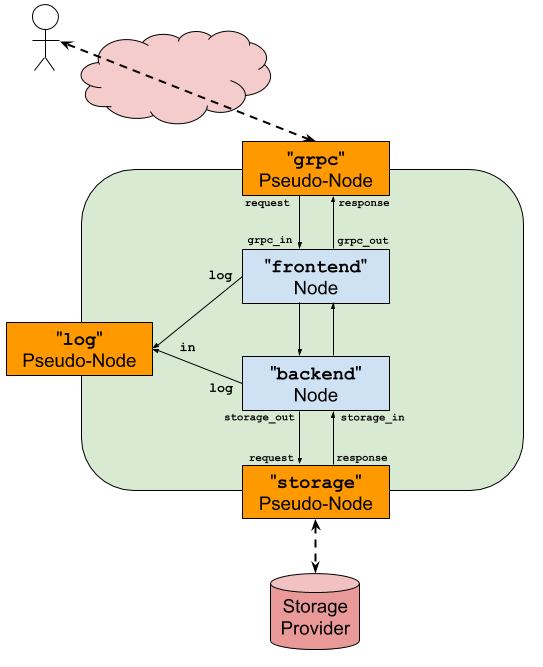
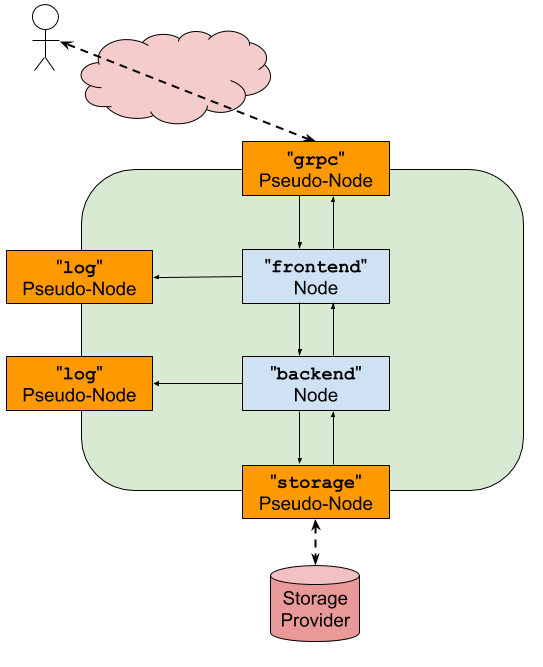
docs: shift to dynamic node creation

diff --git a/docs/concepts.md b/docs/concepts.md
@@ -64,13 +64,6 @@ write to respectively. Each half of a channel is identified by a **handle**,
 which is used as a parameter to the corresponding
 [host function](abi.md#host-functions) calls.
 
-### Pre-Defined Channels and Port Names
-
-A collection of pre-configured channel halves are available to the Oak Node, as
-specified in the `ApplicationConfiguration` used to create the Node. The handles
-for these channels can be retrieved by using the `channel_find` host function
-(below) to map a _port name_ to the relevant channel handle.
-
 ## Pseudo-Nodes
 
 An Oak node is limited to exchanging messages with other Nodes via channels; to
@@ -78,17 +71,27 @@ allow interactions with the outside world, the Oak system also provides a number
 of **pseudo-Nodes**.
 
 These pseudo-Nodes present as normal Nodes to the 'normal' Nodes in an Oak
-Application: the normal Nodes exchange messages with the pseudo-Nodes over
-channels. However, the pseudo-Nodes are implemented as part of the Oak Manager
-(executing as native C++ code, rather than Wasm code) so that they can interact
-with the outside world.
+Application:
+
+- Pseudo-Node instances are created with `node_create()` as for Wasm Nodes (with
+  the exception of the gRPC pseudo-Node, which is automatically created at
+  Application start-of-day).
+- Nodes exchange messages with the pseudo-Nodes over channels.
+
+However, the pseudo-Nodes are implemented as part of the Oak Runtime (executing
+as native C++ code, rather than Wasm code) so that they can interact with the
+outside world.
 
 The available pseudo-Nodes are:
 
 - **gRPC pseudo-node**: Provides a 'front door' for external interaction with an
   Oak Application, by implementing a gRPC service. External requests to the gRPC
-  service are written to an outbound channel from the pseudo-Node, which then
-  expects to receive response messages on a corresponding inbound channel.
+  service are written to a channel that connects from the pseudo-Node to the
+  initial Node of the Application. Each new request is accompanied by a
+  corresponding inbound channel handle, which the initial Node uses to send
+  response messages. The Oak Runtime automatically creates a gRPC pseudo-Node at
+  Application start-of-day (and so gRPC pseudo-Nodes cannot be created with
+  `node_create()`).
 - **Logging pseudo-node**: Provides a logging mechanism for Nodes under
   development by including a single inbound channel; anything received on the
   channel will be logged. This node should only be enabled during application
@@ -99,10 +102,9 @@ The available pseudo-Nodes are:
   associated responses from a corresponding outbound channel from the storage
   pseudo-Node.
 
-An Oak Application which intends to use any of these pseudo-Nodes must include
-them (and channels to/from them) in its
-[Application Configuration](/oak/proto/manager.proto). An example configuration
-that includes all pseudo-Nodes is depicted below.
+An Oak Application uses any of these pseudo-Nodes (except the first) by
+including an entry for them in its `ApplicationConfiguration`, and creating them
+at runtime (with `node_create()`).
 
 <!-- From: -->
 <!-- https://docs.google.com/drawings/d/1gRCOzXWCEhp1-GF6Rnd9N6be8hs1sENfleCzXdQMOsc-->
@@ -111,16 +113,20 @@ that includes all pseudo-Nodes is depicted below.
 ## Oak Application
 
 An **Oak Application** is a set of Oak Nodes running within the same enclave,
-and connected by unidirectional channels. The initial connectivity graph is
-specified by an [Application Configuration](/oak/proto/manager.proto). Once the
-Application is running, new channels may be created and handles to either half
-of the channel may be passed between Nodes, but no new Nodes can be
-instantiated.
+and connected by unidirectional channels. The initial connectivity graph
+consists of:
 
-An Oak Application may have one or more entry points from which it can be
-invoked by clients over a gRPC connection; this is specified in the connectivity
-graph by including a pair of pre-defined channels to a gRPC
-[pseudo-Node](#pseudo-nodes).
+- A gRPC pseudo-Node.
+- An initial Application Node.
+- A single channel from the gRPC pseudo-Node to the initial Application Node.
+
+Once the Application is running, new Nodes can be created (with
+`node_create()`), new channels can be created (with `channel_create()`) and the
+handles to either half of the channel may be passed between Nodes (over
+channels).
+
+The allowed contents of the Nodes, and the initial Node to run, are specified by
+an [Application Configuration](/oak/proto/manager.proto).
 
 Once a new Oak Application is initialized and its endpoint available, clients
 may connect to it using individually end-to-end encrypted, authenticated and

diff --git a/docs/programming-oak.md b/docs/programming-oak.md
@@ -70,10 +70,8 @@ macro implements `oak_main` for you, with the following default behaviour:
 - Create an instance of your Node `struct` (using the `new()` method from the
   [`OakNode`](https://project-oak.github.io/oak/sdk/oak/grpc/trait.OakNode.html)
   trait described below).
-- Look for channel handles corresponding to the
-  [default port names](abi.md#pre-defined-channels) for gRPC input and output
-  channel halves.
-- Pass the Node `struct` and the channel handles to the
+- Take the channel handle passed to `oak_main()` and use it for gRPC input.
+- Pass the Node `struct` and the channel handle to the
   [`event_loop()`](https://project-oak.github.io/oak/sdk/oak/grpc/fn.event_loop.html)
   function from the [`oak::grpc` module](sdk.md#oakgrpc-module).
 
@@ -231,9 +229,10 @@ configuration (described in the next section) easier:
 
 To use the `CreateApplication` method, the client needs to specify the
 _application configuration_; this describes the Nodes that make up the
-application, and their connectivity. However, for the simple case of a one-Node
-application the `oak::ManagerClient` helper takes care of this; the client just
-need to provide the code that is going to be run in the Node, as a Wasm module:
+application, and the initial Node to start. However, for the simple case of a
+one-Node application the `oak::ManagerClient` helper takes care of this; the
+client just need to provide the code that is going to be run in the Node, as a
+Wasm module:
 
 <!-- prettier-ignore-start -->
 [embedmd]:# (../examples/rustfmt/client/rustfmt.cc C++ /.*FLAGS_module/ /}/)
@@ -302,7 +301,8 @@ sections) would be as follows:
 - The Oak Runtime receives the message and encapsulates it in a `GrpcRequest`
   wrapper message.
 - The Oak Runtime serializes the `GrpcRequest` and writes it to the gRPC-in
-  channel for the node.
+  channel for the node. It also creates a new channel for any responses, and
+  passes a handle for this response channel alongside the request.
 - This unblocks the Node code, and `oak::grpc::event_loop` reads and
   deserializes the incoming gRPC request. It then calls the Node's `invoke()`
   method with the method name and (serialized) gRPC request.
@@ -312,9 +312,9 @@ sections) would be as follows:
   `Node`.
 - The (user-written) code in this method does its work, and returns a response.
 - The auto-generated `dispatch()` code encapsulates the response into a
-  `GrpcResponse` wrapper message, and serializes into the gRPC output channel.
-- The Oak Runtime reads this message from the channel, deserializes it and sends
-  the inner response back to the client.
+  `GrpcResponse` wrapper message, and serializes into the response channel.
+- The Oak Runtime reads this message from the response channel, deserializes it
+  and sends the inner response back to the client.
 - The client C++ code receives the response.
 
 <!-- From (Google-internal): http://go/sequencediagram/view/5741464478810112 -->
@@ -373,8 +373,8 @@ crate also allows the gRPC service methods to be tested via the
 #[test]
 #[serial(node_test)]
 fn test_hello_request() {
-    oak_tests::grpc_channel_setup_default();
-    oak_tests::start_node(oak_tests::DEFAULT_NODE_NAME);
+    let handle = oak_tests::grpc_channel_setup_default();
+    oak_tests::start_node(handle);
 
     let mut req = HelloRequest::new();
     req.set_greeting("world".to_string());
@@ -417,7 +417,7 @@ now in Rust rather than C++).
 
 However, the fields in the application configuration that hold the Wasm bytecode
 for the various Nodes are ignored; instead, the second argument to
-`oak_tests::start()` is a map from the relevant `WasmContents.name` to a
+`oak_tests::start()` is a map from the relevant `NodeContents.name` to a
 `fn() -> i32` function pointer (aliased as `oak_tests::NodeMain`) for the main
 entrypoint for each Node.
 
@@ -433,8 +433,8 @@ fn test_abi() {
     let mut entrypoints = HashMap::new();
     let fe: oak_tests::NodeMain = abitest_frontend::main;
     let be: oak_tests::NodeMain = abitest_backend::main;
-    entrypoints.insert("frontend-code".to_string(), fe);
-    entrypoints.insert("backend-code".to_string(), be);
+    entrypoints.insert(FRONTEND_CONFIG_NAME.to_string(), fe);
+    entrypoints.insert(BACKEND_CONFIG_NAME.to_string(), be);
     oak_tests::start(test_config(), entrypoints);
 ```
 <!-- prettier-ignore-end -->
@@ -456,7 +456,7 @@ pub extern "C" fn oak_main(handle: u64) -> i32 {
         Err(_) => OakStatus::ERR_INTERNAL.value(),
     }
 }
-pub fn main(_handle: u64) -> i32 {
+pub fn main(handle: u64) -> i32 {
 ```
 <!-- prettier-ignore-end -->
 

diff --git a/docs/abi.md b/docs/abi.md
@@ -4,14 +4,15 @@ Oak [Nodes](concepts.md#oak-node) are implemented as WebAssembly modules, and so
 can only interact with things outside of the WebAssembly environment through
 specific entrypoints which form the **Oak ABI**:
 
-- The [Oak Runtime](concepts.md#oak-runtime) invokes the Oak Node via a single
+- The [Oak Runtime](concepts.md#oak-runtime) invokes each Oak Node via a single
   [exported function](#exported-function).
 - The Oak Node can make use of functionality provided by the Oak TCB by invoking
   [host functions](#host-functions), available as WebAssembly imports.
 
-These host functions provided by the Oak TCB revolve around the use of
-[channels](concepts.md#channels) for inter-node communication. To communicate
-with the outside world beyond the Oak system, the Oak TCB may also include
+These host functions provided by the Oak TCB revolve around the creation of
+other Nodes, and the use of [channels](concepts.md#channels) for inter-node
+communication. To communicate with the outside world beyond the Oak system, a
+Node may also create and communicate with
 [pre-defined channels](#pre-defined-channels) that are connected to
 [pseudo-Nodes](concepts.md#pseudo-nodes).
 
@@ -61,6 +62,10 @@ incoming messages that arrive on the read halves of its channels, sending
 outgoing messages over the write halves of channels. The `oak_main` function is
 generally expected to run forever, but may return a status if the Node choses to
 terminate (whether expectedly or unexpectedly).
+
+Each Oak Application starts with a single initial Oak Node; this Node receives
+as its initial handle the read half of a channel that receives gRPC requests
+from an implicit [gRPC pseudo-Node](concepts.md#pseudo-nodes).
 
 ## Host Functions
 
@@ -131,18 +136,11 @@ functions** as
   - arg 0: Handle to channel
   - return 0: Status of operation
 
-- `channel_find: (usize, usize) -> u64`: Return the channel handle that
-  corresponds to a provided port name, or zero if not found.
+- `node_create: (usize, usize, u64) -> u32`: Create a new Node running the Node
+  contents identified by args 0 and 1, and pass it an initial handle to the read
+  half of a channel identified by arg 2.
 
-  - arg 0: Source buffer holding port name
-  - arg 1: Source buffer size in bytes
-  - return 0: Channel handle, or zero if not found.
-
-- `node_create: (usize, usize, u64) -> u32`: Create a new Node running the Web
-  Assembly contents identified by args 0 and 1, and pass it an initial handle to
-  the read half of a channel identified by arg 2.
-
-  - arg 0: Source buffer holding Wasm contents name
+  - arg 0: Source buffer holding contents name
   - arg 1: Source buffer size in bytes
   - arg 2: Handle to channel
   - return 0: Status of operation
@@ -152,26 +150,3 @@ functions** as
   - arg 0: Destination buffer
   - arg 1: Destination buffer size in bytes
   - return 0: Status of operation
-
-## Pre-Defined Channels
-
-The default [port names](concepts.md#pre-defined-channels-and-port-names) that
-are configured by the `oak::DefaultConfig()`
-[helper function](oak/common/app_config.h) and its ancillaries
-(`oak::AddLoggingToConfig()`, `oak::AddStorageToConfig()`) are:
-
-- `log` (send): Messages sent to this channel will treated as UTF-8 strings to
-  be logged.
-- `grpc_in` (receive): This channel will be populated with incoming gRPC request
-  messages, for processing by the Oak Node. Each incoming message is a
-  serialized `GrpcRequest` protocol buffer message (see
-  [/oak/proto/grpc_encap.proto](oak/proto/grpc_encap.proto)), and is accompanied
-  by a handle for the write half of a channel which should be used for sending
-  the associated gRPC response messages (as serialized `GrpcResponse` protocol
-  buffer messages).
-- `storage_out` (send): This channel can be used to send storage request
-  messages. Each such message should be encoded as a serialized
-  `StorageOperationRequest` protocol buffer message (see
-  [/oak/proto/storage.proto](oak/proto/storage.proto)), and should be
-  accompanied by a handle for the write half of a channel for the response to be
-  returned on.

diff --git a/docs/sdk.md b/docs/sdk.md
@@ -30,12 +30,9 @@ types for easier use.
 - Channel read operations automatically re-size the outputs to accomodate the
   contents of read messages.
 
-The `oak` crate also provides
-
-- [`oak::logging_channel()`](https://project-oak.github.io/oak/sdk/oak/fn.logging_channel.html)
-  to allow access to logging via the `std::io::Write` trait.
-- [`oak::set_panic_hook()`](https://project-oak.github.io/oak/sdk/oak/fn.set_panic_hook.html)
-  to ensure that Rust `panic`s are logged.
+The `oak` crate also provides the
+[`oak::set_panic_hook()`](https://project-oak.github.io/oak/sdk/oak/fn.set_panic_hook.html)
+helper, to ensure that Rust `panic`s are logged.
 
 ### `oak::wasm` Module
 
@@ -69,7 +66,8 @@ trait, to allow use of the
 
 The [`oak::grpc`](https://project-oak.github.io/oak/sdk/oak/grpc/index.html)
 module holds functionality that is helpful for interacting with the outside
-world over gRPC, via the [gRPC pseudo-Node](concepts.md#pseudo-nodes).
+world over gRPC, via the implicit [gRPC pseudo-Node](concepts.md#pseudo-nodes)
+that has a channel to the Application's initial Node.
 
 An Oak Node that interacts with gRPC typically implements the
 [`oak::grpc::OakNode`](https://project-oak.github.io/oak/sdk/oak/grpc/trait.OakNode.html)
@@ -96,8 +94,8 @@ module holds auto-generated submodules for dealing with protocol buffers.
 
 The [`oak_log`](https://project-oak.github.io/oak/sdk/oak_log/index.html) crate
 is a logging implementation for the Rust
-[log facade](https://crates.io/crates/log), which uses an Oak logging channel
-for the underlying logging mechanism.
+[log facade](https://crates.io/crates/log), which uses an channel to a
+freshly-created logging pseudo-Node as the underlying logging mechanism.
 
 ## `oak_derive` Crate
 
